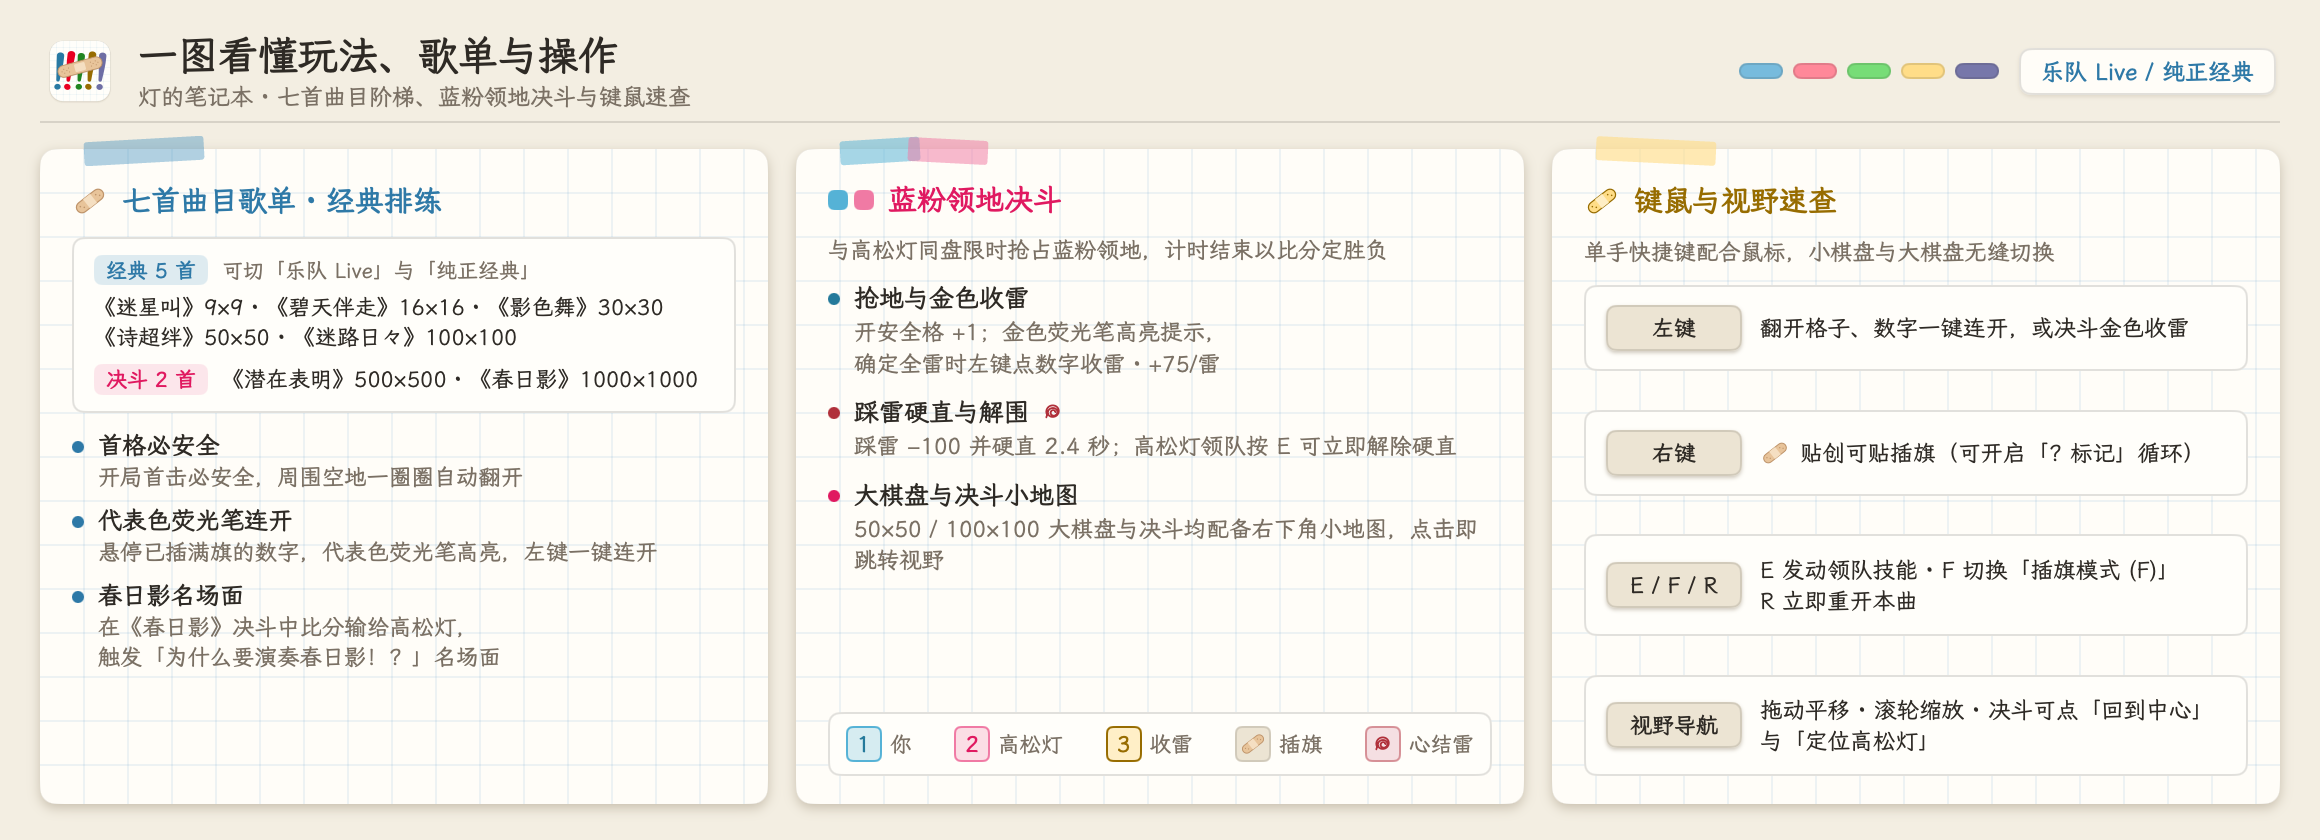
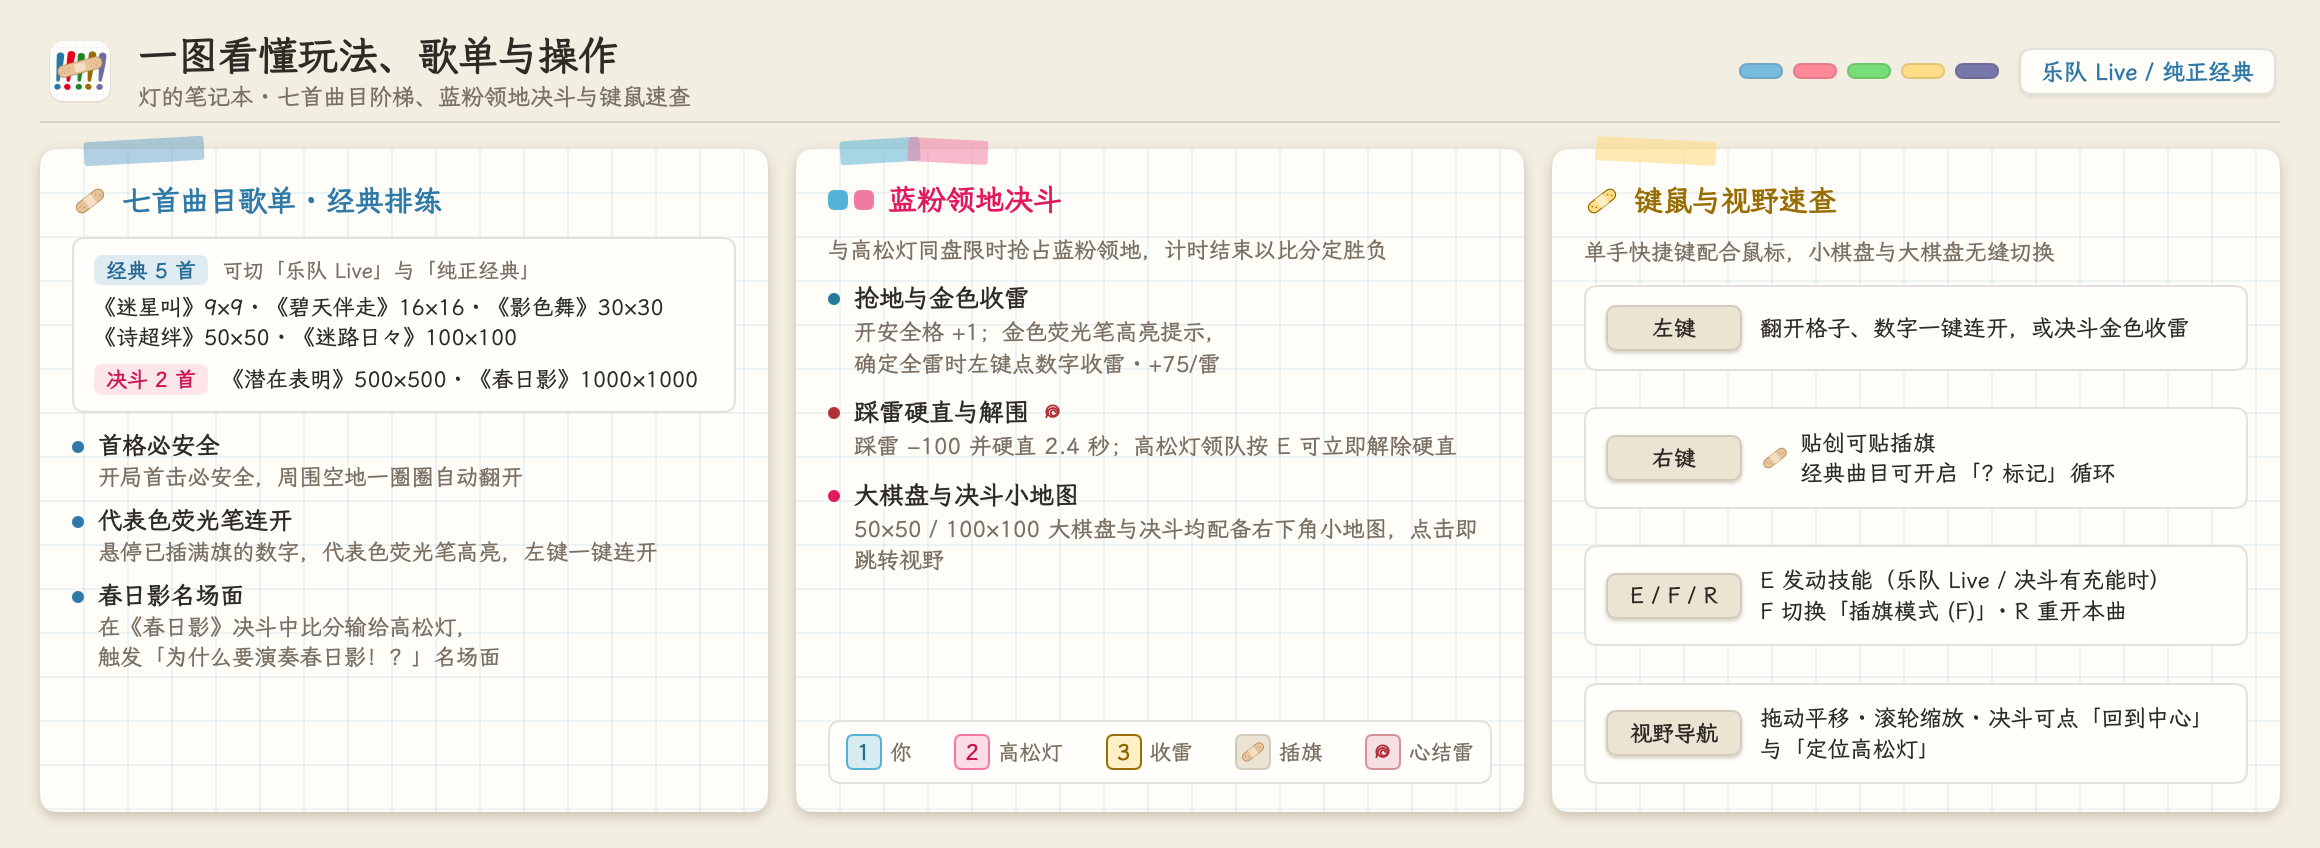
ui: align card copy with classic/duel skill rules and WCAG contrast

diff --git a/cards_test.go b/cards_test.go
@@ -19,8 +19,9 @@ import (
 )
 
 // The two README overview cards are rendered with the app's own notebook
-// palette, props and ui package at 2x scale. Regenerate both PNGs after editing
-// card copy or layout with:
+// palette, props and ui package at 2x scale. Exporting requires the full
+// WenKai TTFs in the local font cache (populated by `go generate`). Regenerate
+// both PNGs after editing card copy or layout with:
 //
 //	MYGO_CARDS_EXPORT=1 go test -run TestCardsExport .
 const (
@@ -28,9 +29,9 @@ const (
 	membersCardPath  = "docs/assets/card-members.png"
 
 	gameplayCardW = 1160
-	gameplayCardH = 420
+	gameplayCardH = 424
 	membersCardW  = 1160
-	membersCardH  = 342
+	membersCardH  = 360
 	cardScale     = 2
 
 	cardFontFamily   = "LXGW WenKai Cards"
@@ -167,12 +168,12 @@ func gameplayCardData() gameplayCardSpec {
 			},
 			{
 				Key:  "右键",
-				Desc: "贴创可贴插旗（可开启「? 标记」循环）",
+				Desc: "贴创可贴插旗\n经典曲目可开启「? 标记」循环",
 				Icon: dayArt.Flag,
 			},
 			{
 				Key:  "E / F / R",
-				Desc: "E 发动领队技能 · F 切换「插旗模式 (F)」\nR 立即重开本曲",
+				Desc: "E 发动技能（乐队 Live / 决斗有充能时）\nF 切换「插旗模式 (F)」· R 重开本曲",
 			},
 			{
 				Key:  "视野导航",
@@ -190,15 +191,15 @@ func membersCardData() membersCardSpec {
 		},
 		MemberAnon: {
 			"随机翻开 2 个安全格，\n快速打开当前局面",
-			"9×9 扫描，把连击转为\n最高 +75 奖励分",
+			"9×9 扫描 7 秒，\n连击转为最高 +75 奖励分",
 		},
 		MemberSoyorin: {
 			"踩雷自动消耗护盾，\n并替你贴上创可贴",
-			"自动消耗护盾，抵消\n−100 扣分与 2.4 秒硬直",
+			"被动护盾抵消 −100 与硬直；\n按 E 扫描 7 秒并延缓灯 1.2 秒",
 		},
 		MemberTaki: {
 			"精准找出边界隐藏雷，\n并贴上创可贴插旗",
-			"9×9 扫描，\n延缓高松灯行动 3.0 秒",
+			"9×9 扫描 7 秒，\n延缓高松灯行动 3.0 秒",
 		},
 		MemberRana: {
 			"展开一片 0 雷空白区，\n并缓和乐队重力值",
@@ -209,7 +210,7 @@ func membersCardData() membersCardSpec {
 	for i, m := range Members {
 		tag := "主动 E"
 		if m.Passive {
-			tag = "被动护盾"
+			tag = "护盾 / E"
 		}
 		desc := descriptions[m.ID]
 		entries[i] = memberCardEntry{
@@ -221,9 +222,9 @@ func membersCardData() membersCardSpec {
 	}
 	return membersCardSpec{
 		Title:    "MyGO!!!!! 五人领队技能图鉴",
-		Subtitle: "全员均取官方代表色入墨，技能分经典曲目与决斗曲目两套效果",
+		Subtitle: "全员均取官方代表色入墨，技能仅在「乐队 Live」与决斗有充能时生效",
 		RightTip: fmt.Sprintf("左侧栏随时切换领队 · 内置 %d 项名场面图鉴与排练室群聊", len(AllMemes)),
-		Classic:  "经典曲目",
+		Classic:  "经典曲目 · 乐队 Live",
 		Duel:     "决斗曲目",
 		Entries:  entries,
 	}
@@ -439,20 +440,24 @@ func gameplayCardView(spec gameplayCardSpec) func(*ui.Context) {
 					})
 
 					// 7-Track Ladder Inset
+					classicTagBg := bandColor.Alpha(0.16).Over(dayPaper.Board)
+					classicTagInk := setlistInk(dayPaper, classicTagBg, bandColor)
+					duelTagBg := duelPalette.AI.Alpha(0.18).Over(dayPaper.Board)
+					duelTagInk := setlistInk(dayPaper, duelTagBg, duelPalette.AI)
 					ui.Column(c).FillWidth().Padding(8, 10).Gap(6).Radius(6).
 						Background(dayPaper.Board).Border(1, dayPaper.Rule).Children(func() {
 						ui.Column(c).FillWidth().Gap(3).Children(func() {
 							ui.Row(c).FillWidth().AlignItems(ui.Center).Gap(7).Children(func() {
-								ui.Box(c).Shrink(0).Padding(1.5, 6).Radius(4).Background(bandColor.Alpha(0.16)).Children(func() {
-									ui.Text(c, spec.ClassicGroup).FontSize(10.5).Bold().TextColor(bandInk).SingleLine()
+								ui.Box(c).Shrink(0).Padding(1.5, 6).Radius(4).Background(classicTagBg).Children(func() {
+									ui.Text(c, spec.ClassicGroup).FontSize(10.5).Bold().TextColor(classicTagInk).SingleLine()
 								})
 								ui.Text(c, spec.ModeNote).Grow(1).FontSize(10.5).TextColor(dayPaper.InkMuted).SingleLine()
 							})
 							ui.Text(c, spec.ClassicTracks).FontSize(11).LineHeight(1.38).TextColor(dayPaper.Ink).FontFeatures("tnum")
 						})
 						ui.Row(c).FillWidth().AlignItems(ui.Center).Gap(7).Children(func() {
-							ui.Box(c).Shrink(0).Padding(1.5, 6).Radius(4).Background(duelPalette.AI.Alpha(0.18)).Children(func() {
-								ui.Text(c, spec.DuelGroup).FontSize(10.5).Bold().TextColor(aiInk).SingleLine()
+							ui.Box(c).Shrink(0).Padding(1.5, 6).Radius(4).Background(duelTagBg).Children(func() {
+								ui.Text(c, spec.DuelGroup).FontSize(10.5).Bold().TextColor(duelTagInk).SingleLine()
 							})
 							ui.Text(c, spec.DuelTracks).Grow(1).FontSize(11).LineHeight(1.36).TextColor(dayPaper.Ink).FontFeatures("tnum")
 						})
@@ -511,11 +516,14 @@ func gameplayCardView(spec gameplayCardSpec) func(*ui.Context) {
 					})
 
 					// Mini Notebook Visual Legend
+					lgPlayerBg := duelPalette.Player.Alpha(0.24).Over(dayPaper.Board)
+					lgAIBg := duelPalette.AI.Alpha(0.24).Over(dayPaper.Board)
+					lgClaimBg := soyoColor.Alpha(0.45).Over(dayPaper.Board)
 					ui.Row(c).FillWidth().Padding(6, 8).Radius(6).Background(dayPaper.Board).
 						Border(1, dayPaper.Rule).AlignItems(ui.Center).Justify(ui.SpaceBetween).Children(func() {
-						legendTile(c, "lg-player", duelPalette.Player.Alpha(0.24).Over(dayPaper.Board), duelPalette.Player, "1", playerInk, nil, spec.LegendLabels[0])
-						legendTile(c, "lg-ai", duelPalette.AI.Alpha(0.24).Over(dayPaper.Board), duelPalette.AI, "2", aiInk, nil, spec.LegendLabels[1])
-						legendTile(c, "lg-claim", soyoColor.Alpha(0.45).Over(dayPaper.Board), soyoInk, "3", soyoInk, nil, spec.LegendLabels[2])
+						legendTile(c, "lg-player", lgPlayerBg, duelPalette.Player, "1", setlistInk(dayPaper, lgPlayerBg, duelPalette.Player), nil, spec.LegendLabels[0])
+						legendTile(c, "lg-ai", lgAIBg, duelPalette.AI, "2", setlistInk(dayPaper, lgAIBg, duelPalette.AI), nil, spec.LegendLabels[1])
+						legendTile(c, "lg-claim", lgClaimBg, soyoInk, "3", setlistInk(dayPaper, lgClaimBg, soyoColor), nil, spec.LegendLabels[2])
 						legendTile(c, "lg-flag", dayPaper.Slip, dayPaper.Rule, "", dayPaper.Ink, dayArt.Flag, spec.LegendLabels[3])
 						legendTile(c, "lg-knot", dayPaper.Boom.Over(dayPaper.Board), dayPaper.BoomInk.Alpha(0.45), "", dayPaper.Ink, dayArt.KnotHit, spec.LegendLabels[4])
 					})
@@ -597,7 +605,12 @@ func membersCardView(spec membersCardSpec) func(*ui.Context) {
 				for i, entry := range spec.Entries {
 					m := entry.Member
 					mc := memberImage(m.ID)
-					mInk := dayPaper.InkOf(mc)
+					roleBg := mc.Alpha(0.28).Over(dayPaper.Sheet)
+					roleInk := setlistInk(dayPaper, roleBg, mc)
+					skillBg := mc.Alpha(0.24).Over(dayPaper.Sheet)
+					skillInk := setlistInk(dayPaper, skillBg, mc)
+					trigBg := dayPaper.Sheet.Alpha(0.85).Over(skillBg)
+					trigInk := setlistInk(dayPaper, trigBg, mc)
 					angle := tapeAngles[i%len(tapeAngles)]
 
 					ui.Column(c.Key(string(m.ID))).Grow(1).FillHeight().Padding(15, 12, 12, 12).Gap(8).Radius(8).
@@ -615,8 +628,8 @@ func membersCardView(spec membersCardSpec) func(*ui.Context) {
 							ui.Column(c).Grow(1).Gap(2).Children(func() {
 								ui.Row(c).FillWidth().AlignItems(ui.Center).Justify(ui.SpaceBetween).Gap(4).Children(func() {
 									ui.Text(c, m.Name).FontSize(14.5).Bold().TextColor(dayPaper.Ink).SingleLine()
-									ui.Box(c).Padding(1.5, 6).Radius(4).Background(mc.Alpha(0.28).Over(dayPaper.Sheet)).Children(func() {
-										ui.Text(c, m.Role).FontSize(10.5).Bold().TextColor(mInk).SingleLine()
+									ui.Box(c).Padding(1.5, 6).Radius(4).Background(roleBg).Children(func() {
+										ui.Text(c, m.Role).FontSize(10.5).Bold().TextColor(roleInk).SingleLine()
 									})
 								})
 								ui.Text(c, m.Romaji).FontSize(11).TextColor(dayPaper.InkMuted).SingleLine()
@@ -628,15 +641,15 @@ func membersCardView(spec membersCardSpec) func(*ui.Context) {
 
 						// Skill Name Strip
 						ui.Row(c).FillWidth().Padding(6, 7).Radius(6).
-							Background(mc.Alpha(0.24).Over(dayPaper.Sheet)).
+							Background(skillBg).
 							AlignItems(ui.Center).Justify(ui.SpaceBetween).Gap(4).Children(func() {
 							ui.Row(c).AlignItems(ui.Center).Gap(5).Children(func() {
-								ui.Box(c).Size(3, 13).Radius(1.5).Background(mInk)
-								ui.Text(c, "「"+m.SkillName+"」").FontSize(12).Bold().TextColor(mInk).SingleLine()
+								ui.Box(c).Size(3, 13).Radius(1.5).Background(skillInk)
+								ui.Text(c, "「"+m.SkillName+"」").FontSize(12).Bold().TextColor(skillInk).SingleLine()
 							})
-							ui.Box(c).Padding(1.5, 5).Radius(4).Background(dayPaper.Sheet.Alpha(0.85)).
+							ui.Box(c).Padding(1.5, 5).Radius(4).Background(trigBg).
 								Border(1, dayPaper.Rule).Children(func() {
-								ui.Text(c, entry.TriggerTag).FontSize(9.8).Bold().TextColor(mInk).SingleLine()
+								ui.Text(c, entry.TriggerTag).FontSize(9.8).Bold().TextColor(trigInk).SingleLine()
 							})
 						})
 
@@ -726,7 +739,8 @@ func TestCardCopyContracts(t *testing.T) {
 		"踩雷 −100",
 		"2.4 秒",
 		"插旗模式 (F)",
-		"? 标记",
+		"经典曲目可开启「? 标记」循环",
+		"有充能时",
 		"拖动平移",
 		"滚轮缩放",
 		"回到中心",
@@ -736,6 +750,10 @@ func TestCardCopyContracts(t *testing.T) {
 		if !strings.Contains(gpJoined, required) {
 			t.Errorf("gameplay card missing aligned in-game copy %q", required)
 		}
+	}
+
+	if !strings.Contains(mbJoined, "经典曲目 · 乐队 Live") {
+		t.Errorf("members card must note 经典曲目 · 乐队 Live so classic-mode skills are clear")
 	}
 
 	// Every band member must appear verbatim with official tagline and skill name.
@@ -894,9 +912,11 @@ func TestCardAssetsMatchNotebookPalette(t *testing.T) {
 		{"dayPaper.Ink", dayPaper.Ink, 500},
 	}
 	for _, m := range Members {
+		mc := memberImage(m.ID)
+		skillInk := setlistInk(dayPaper, mc.Alpha(0.24).Over(dayPaper.Sheet), mc)
 		mbSwatches = append(mbSwatches,
-			swatch{m.Name + " 代表色", memberImage(m.ID), 120},
-			swatch{m.Name + " 墨色", dayPaper.InkOf(memberImage(m.ID)), 60},
+			swatch{m.Name + " 代表色", mc, 120},
+			swatch{m.Name + " 墨色", skillInk, 60},
 		)
 	}
 	mbColors := make([]ui.Color, len(mbSwatches))
